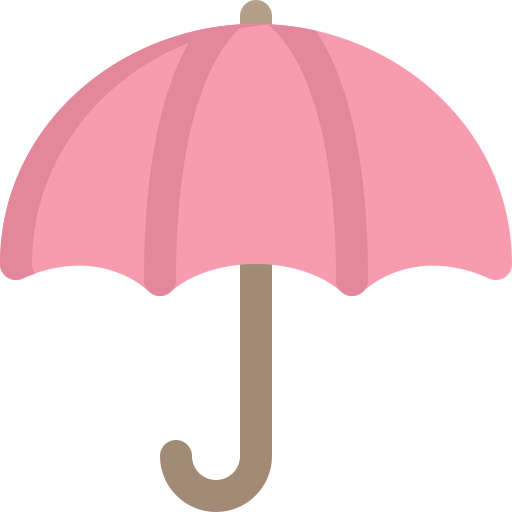
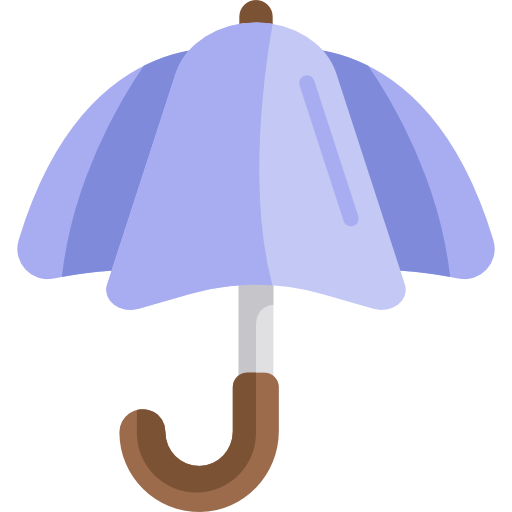
adding a welcome page

diff --git a/styles/conditions-styles.css b/styles/conditions-styles.css
@@ -1,34 +1,3 @@
-/* aside styles */
-.side-nav {
-  display: flex;
-  flex-direction: column;
-  padding: 40px 0;
-  gap: 30px;
-  align-items: center;
-  color: var(--lightgray);
-  font-size: 0.6rem;
-  font-weight: 700;
-}
-
-.side-nav .active,
-.side-nav .active i {
-  color: var(--lightwhite);
-}
-
-.side-nav i {
-  font-size: 0.8rem;
-}
-
-.side-nav div:first-child {
-  margin-bottom: 30px;
-}
-
-.side-nav div {
-  display: flex;
-  flex-direction: column;
-  gap: 4px;
-}
-
 /* main styles */
 .main {
   display: grid;
@@ -194,7 +163,8 @@
 }
 
 .week-forecast .day {
-  display: flex;
+  display: grid;
+  grid-template-columns: repeat(3, calc(100% / 3));
   justify-content: space-between;
   align-items: center;
   flex: 1 1 auto;
@@ -207,7 +177,8 @@
 
 .week-forecast .day .weather {
   display: flex;
-  gap: 20px;
+  gap: 15px;
+  justify-self: start;
 }
 
 .week-forecast .day .weather,
@@ -216,7 +187,11 @@
   font-weight: 700;
 }
 
+.week-forecast .day > p:last-child {
+  text-align: right;
+}
+
 .week-forecast .day img {
-  width: 30px;
-  height: 30px;
+  width: 25px;
+  height: 25px;
 }

diff --git a/styles/welcome-styles.css b/styles/welcome-styles.css
@@ -1,0 +1,60 @@
+body {
+  background-color: var(--dark);
+  color: var(--lightwhite);
+  padding: 30px 70px;
+  font-family: system-ui, -apple-system, BlinkMacSystemFont, "Segoe UI", Roboto,
+    Oxygen, Ubuntu, Cantarell, "Open Sans", "Helvetica Neue", sans-serif;
+
+  display: flex;
+  gap: 20px;
+  height: 100vh;
+  text-align: center;
+}
+
+aside {
+  display: flex;
+  justify-content: center;
+  align-items: center;
+  width: 50%;
+}
+
+aside img {
+  width: 300px;
+  height: 300px;
+}
+
+main {
+  flex: 1 1 auto;
+  display: flex;
+  flex-direction: column;
+  justify-content: center;
+  align-items: center;
+  gap: 30px;
+  /* font-size: 1rem; */
+  font-weight: 600;
+  color: var(--lightgray);
+  background-color: var(--dark);
+}
+
+main .large {
+  font-size: 2rem;
+  font-weight: 700;
+  letter-spacing: 1px;
+  color: var(--lightwhite);
+}
+
+main img {
+  width: 60px;
+  height: 60px;
+}
+
+a {
+  padding: 9px 20px 11px;
+  transform: translateY(9px);
+  background-color: var(--lightblue);
+  border-radius: 15px;
+}
+
+img {
+  transform: rotate(10deg);
+}

diff --git a/html/welcome.html b/html/welcome.html
@@ -1,0 +1,35 @@
+<!DOCTYPE html>
+<html lang="en">
+  <head>
+    <meta charset="UTF-8" />
+    <meta name="viewport" content="width=device-width, initial-scale=1.0" />
+    <title>Welcome</title>
+
+    <link rel="stylesheet" href="../styles/styles.css" />
+    <link rel="stylesheet" href="../styles/welcome-styles.css" />
+    <link
+      rel="stylesheet"
+      href="https://cdnjs.cloudflare.com/ajax/libs/font-awesome/6.6.0/css/all.min.css"
+      integrity="sha512-Kc323vGBEqzTmouAECnVceyQqyqdsSiqLQISBL29aUW4U/M7pSPA/gEUZQqv1cwx4OnYxTxve5UMg5GT6L4JJg=="
+      crossorigin="anonymous"
+      referrerpolicy="no-referrer"
+    />
+  </head>
+
+  <body>
+    <aside>
+      <img src="../images/umbrella.png" alt="umbrella" />
+    </aside>
+
+    <main>
+      <img src="../images/umbrella.png" alt="umbrella" />
+
+      <div>
+        <p class="large">Breeze</p>
+        <p>Weather App</p>
+      </div>
+
+      <a href="../html/home.html">Get started</a>
+    </main>
+  </body>
+</html>

diff --git a/styles/home-styles.css b/styles/home-styles.css
@@ -110,8 +110,8 @@
 
 .air-conditions a {
   background-color: var(--lightblue);
-  padding: 4px 15px 5px;
-  border-radius: 15px;
+  padding: 6px 13px 6px;
+  border-radius: 11px;
 }
 
 .air-conditions .header {
@@ -165,7 +165,8 @@
 }
 
 .week-forecast .day {
-  display: flex;
+  display: grid;
+  grid-template-columns: repeat(3, calc(100% / 3));
   justify-content: space-between;
   align-items: center;
   flex: 1 1 auto;
@@ -185,6 +186,10 @@
 .week-forecast .day span {
   color: var(--lightwhite);
   font-weight: 700;
+}
+
+.week-forecast .day > p:last-child {
+  text-align: right;
 }
 
 .week-forecast .day img {

diff --git a/html/conditions.html b/html/conditions.html
@@ -21,7 +21,7 @@
   <body>
     <section class="side-nav">
       <div>
-        <a href="home.html"><img src="../images/umbrella2.png" /></a>
+        <a href="home.html"><img src="../images/umbrella.png" /></a>
       </div>
 
       <div class="active">

diff --git a/html/home.html b/html/home.html
@@ -21,7 +21,7 @@
   <body>
     <section class="side-nav">
       <div>
-        <a href="home.html"><img src="../images/umbrella2.png" /></a>
+        <a href="home.html"><img src="../images/umbrella.png" /></a>
       </div>
 
       <div class="active">

diff --git a/styles/styles.css b/styles/styles.css
@@ -77,3 +77,7 @@ a {
   flex-direction: column;
   gap: 4px;
 }
+
+.side-nav img {
+  transform: rotate(10deg);
+}
